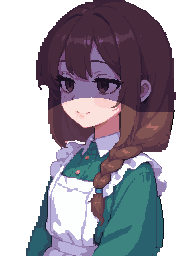
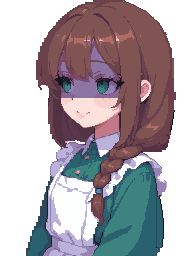
Mira's eight shaded faces: the shadow covers only her face (skin and eyes, bangs down to under the eyes), hair untouched; her own green eyes darkened, no highlights

Changed region(s): [[0.1875, 0.0, 0.9375, 0.4375]]

diff --git a/game/art/NOTES.md b/game/art/NOTES.md
@@ -13,6 +13,8 @@
   - 做完把每張的眼睛和 `portrait.png` 放大並排看過：虹膜（顏色、圖案、大小）和睫毛形狀都是同一副。
   - 婕焰 `bun` 三張和蜜拉兩張換眼睛後顏色超過 48 色的，把最少用的顏色併到最接近的顏色。
 
+- **1 蜜拉腹黑臉八張**：照更正，陰影只罩臉，不罩頭髮。做法：從 `portrait.png` 出發、嘴用上一輪那四張的，眼睛照第 0 項的工具做（`dark` 上眼瞼壓 2 格、`darkflat` 原樣睜眼、`darkgrin` 閉眼弧線、`darkside` 虹膜往旁邊移 2–3 格並壓 1 格，全部拿掉高光）。陰影的範圍是「y 98 以上的膚色格加上兩隻眼睛」：瀏海、頭頂、兩側頭髮和頭髮上的白色光澤都不在範圍內，所以陰影上緣自然跟著瀏海的形狀，瀏海中間露出的那塊額頭也一起罩到；下緣是 y 98 的一條橫線（眼睛下面、鼻樑上半）。膚色和眼白乘上暗藍紫（R×0.56、G×0.52、B×0.74，約六成亮度）；虹膜不乘，改成沿她自己的綠色明暗往暗一階（淺綠→中綠→深綠），所以還是綠色、比較濁暗；睫毛乘完更深，仍然清楚。陰影用的顏色盡量用她色盤裡本來就有的淡紫，只新增 4 色，四張共用，不超過 48 色。`shawl` 的四張是 `portrait-shawl.png` 加上同一張臉。`shawl` 那七張在雲端補洞之後變成 49–50 色，把最少用的顏色併到最接近的顏色。
+
 ## 總結：第三輪（上一輪要重做的地方）
 
 README「下一輪：上一輪要重做的地方」清單全部做完，沒有跳過的項目。每做完一項就提交並推上 `ccr-62025098-zk9541`。全部只用本機 ComfyUI，只動 `game/art/` 底下、清單列到的圖。
